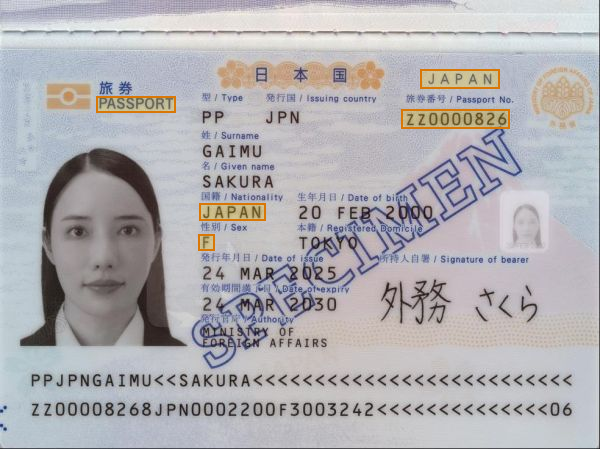
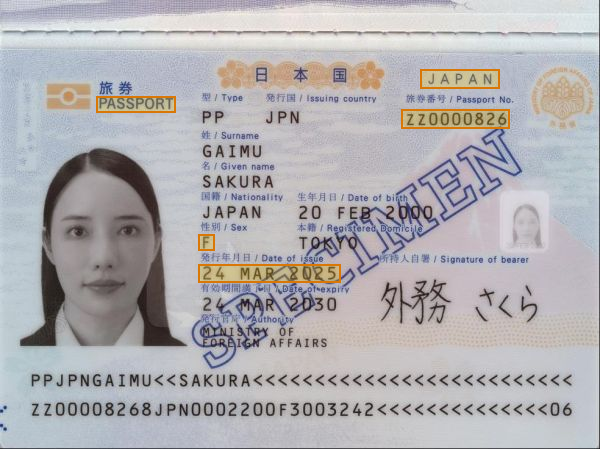
feat: feature date of issue instead of nationality on passport
At the document owner's request. date_of_issue extracts as the ISO date
and grounds to the printed '24 MAR 2025', so build_images.py flags it;
the crop was checked by eye and sits on the issue date, not the expiry
date beneath it.

Changed region(s): [[0.33, 0.5612, 0.57, 0.6548], [0.33, 0.4365, 0.45, 0.4989]]

diff --git a/document-types/collection/passport/README.md b/document-types/collection/passport/README.md
@@ -47,27 +47,33 @@ The collection's first **passport**, and its first document in two scripts:
   schema, identical to the one used for `drivers-license-usa`, so the two pages show one
   schema across two very different documents.
 
-## Featured fields: the document and the holder's status
+## Featured fields: the document and when it was issued
 
-All on the identity page. The request named no fields, so these were chosen:
+All on the identity page. The request named no fields; nationality was in the first
+choice and was swapped for the date of issue at the document owner's request:
 
 | Field | Value |
 |---|---|
 | Document type | Passport |
 | Passport number | ZZ0000826 |
 | Issuing country | JAPAN |
-| Nationality | JAPAN |
 | Sex | F |
+| Date of issue | 2025-03-24 |
 
 No name is featured, although the name is specimen data.
 
-**One value, two places.** Issuing country and nationality are both "JAPAN", and they
-ground to different text: issuing country to the country name in the page header, and
-nationality to the Nationality field. Each box sits where its meaning is. The page's own
-Issuing country field prints the three-letter code "JPN"; extraction took the header's
-"JAPAN" instead, which is also right.
+**The date of issue is flagged, and correct.** Extraction returns it as the ISO date
+2025-03-24 and grounds it to the printed "24 MAR 2025", so `build_images.py` warns that the
+value is not in the boxed text. It is the same date in another format, and the box sits on
+the issue date rather than the expiry date printed directly beneath it; the crop was
+checked by eye.
 
 ## What it surfaced
+
+**One value, two places.** Issuing country and nationality are both "JAPAN", and they
+ground to different text: issuing country to the country name in the page header, and
+nationality to the Nationality field. The page's own Issuing country field prints the
+three-letter code "JPN"; extraction took the header's "JAPAN" instead, which is also right.
 
 **The parse reads both scripts and the handwriting.** Every bilingual label comes back
 intact, as do the Registered Domicile, "TOKYO", and the handwritten signature, returned as
